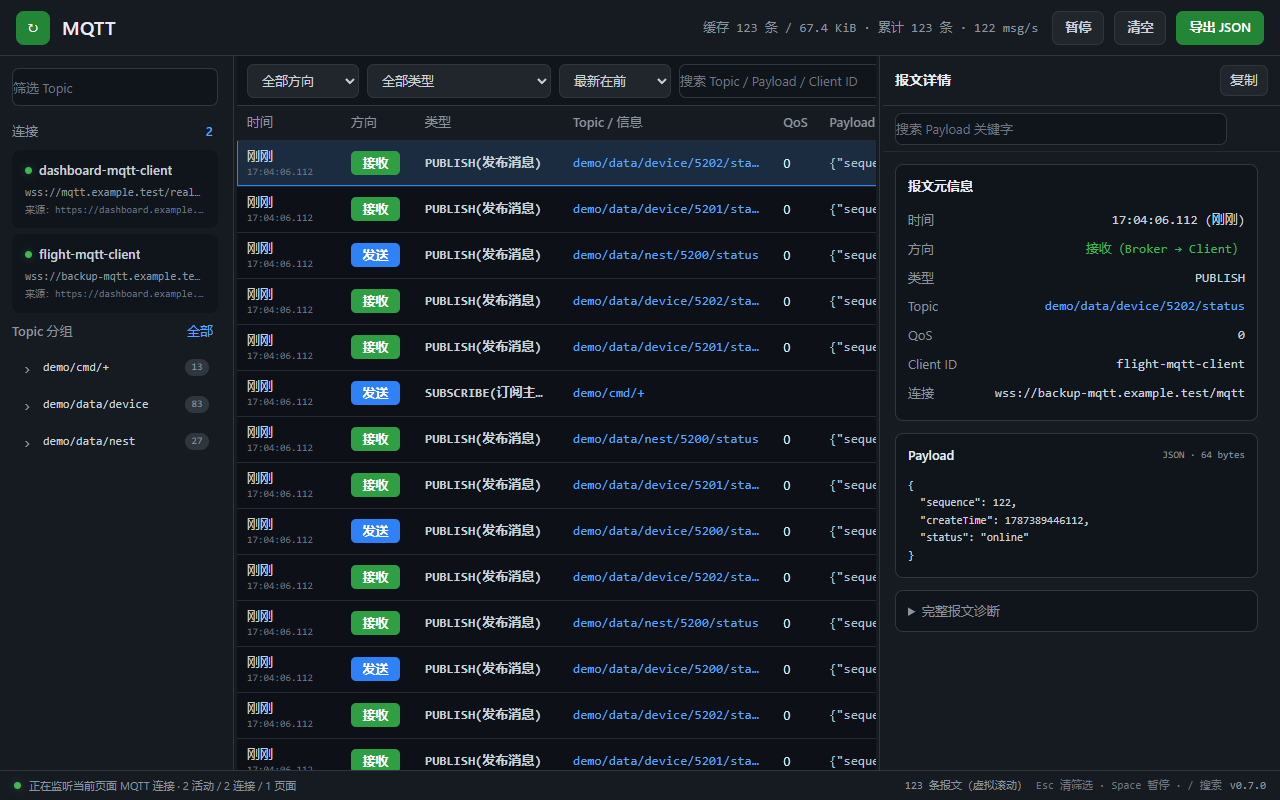
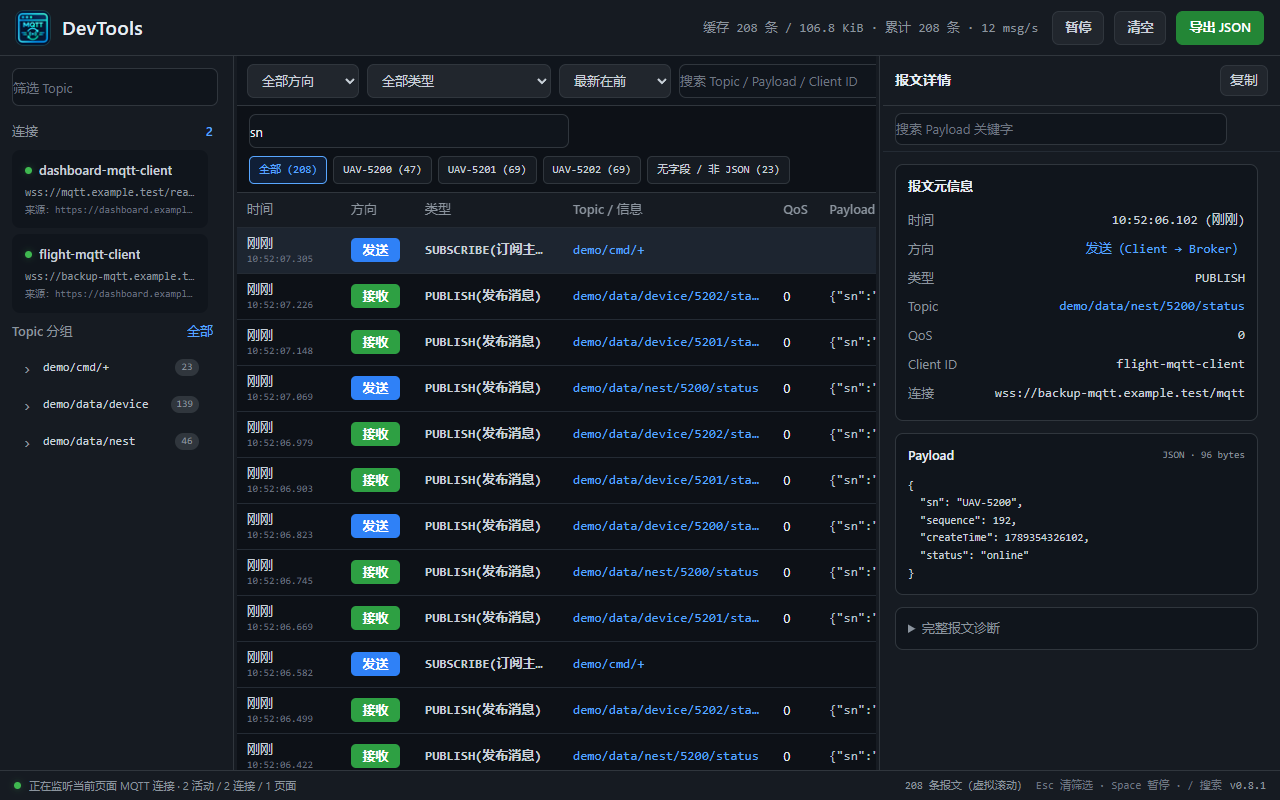
feat: refresh branding for v0.8.2
Assisted-by: Codex

diff --git a/tests/panel-harness.html b/tests/panel-harness.html
@@ -10,7 +10,7 @@
   <body>
     <output id="packetNodeCreations" hidden>0</output>
     <header class="app-header">
-      <div class="brand"><span class="brand-mark">↻</span><span class="brand-name">MQTT</span></div>
+      <div class="brand"><img class="brand-mark" src="../icons/icon32.png" alt="" /><span class="brand-name">DevTools</span></div>
       <div class="header-actions">
         <span id="headerStats" class="header-stats">0 条报文 · 0 msg/s</span>
         <button id="pauseButton" class="action-button" type="button"><span class="button-label">暂停</span></button>
@@ -44,6 +44,10 @@
           <label class="search-field global-search" for="searchInput"><input id="searchInput" type="search" placeholder="搜索 Topic / Payload / Client ID" /></label>
           <span id="activeTopicFilter" class="active-filter hidden"></span>
           <span id="resultCount" class="result-count">0 条结果</span>
+        </div>
+        <div class="payload-grouping">
+          <label class="search-field" for="payloadGroupField"><input id="payloadGroupField" type="search" placeholder="分类字段，如 sn 或 data.sn" aria-label="Payload 分类字段" autocomplete="off" /></label>
+          <div id="payloadGroupTags" class="payload-group-tags" aria-label="Payload 分类标签"></div>
         </div>
         <div class="table-wrap">
           <table><thead><tr><th>时间</th><th>方向</th><th>类型</th><th>Topic / 信息</th><th>QoS</th><th>Payload 预览</th></tr></thead><tbody id="packetRows"></tbody></table>
@@ -113,7 +117,7 @@
             sourceTab,
             packet: subscribe
               ? { type: 8, typeName: "SUBSCRIBE", topics: [{ topic: "demo/cmd/+", qos: 1 }], rawHex: "82 00" }
-              : { type: 3, typeName: "PUBLISH", topic, qos: 0, payloadEncoding: "utf-8", payloadSize: 64, payloadText: JSON.stringify({ sequence, createTime: Date.now(), status: "online" }), rawHex: "30 00" }
+              : { type: 3, typeName: "PUBLISH", topic, qos: 0, payloadEncoding: "utf-8", payloadSize: 96, payloadText: JSON.stringify({ sn: "UAV-" + (5200 + sequence % 3), sequence, createTime: Date.now(), status: sequence % 5 ? "online" : "warning" }), rawHex: "30 00" }
           };
         }
         const initialEvents = [
@@ -122,6 +126,7 @@
           { id: "connection-b", kind: "connection", timestamp: Date.now(), sourceTab, connection: { id: "b", mqtt: true, clientId: "flight-mqtt-client", url: "wss://backup-mqtt.example.test/mqtt", status: "open" } }
         ];
         const largePayload = JSON.stringify({
+          sn: "UAV-5200",
           createTime: new Date().toISOString(),
           deviceId: "uav-5200",
           status: "online",

diff --git a/panel.html b/panel.html
@@ -10,12 +10,7 @@
     <header class="app-header">
       <div class="header-leading">
         <div class="brand" aria-label="MQTT Local DevTools">
-          <span class="brand-mark" aria-hidden="true">
-            <svg viewBox="0 0 24 24" fill="none">
-              <path d="M7 12a5 5 0 0 1 8.8-3.2M17 12a5 5 0 0 1-8.8 3.2" />
-              <path d="m14.4 6.8 1.8 2.1-2.7.7M9.6 17.2l-1.8-2.1 2.7-.7" />
-            </svg>
-          </span>
+          <img class="brand-mark" src="icons/icon32.png" alt="" />
           <span class="brand-name">DevTools</span>
         </div>
         <nav class="module-tabs" aria-label="工具模块">
@@ -325,7 +320,7 @@
     <footer class="statusbar app-statusbar">
       <span id="mqttFooterStatus" class="listen-status"><span id="statusIndicator" class="status-dot"></span><span id="statusText">正在连接页面…</span></span>
       <span id="httpFooterStatus" class="listen-status hidden"><span class="status-dot ready"></span><span id="httpStatusText">HTTP 请求数据仅保留在当前 DevTools 会话内</span></span>
-<span class="status-meta"><span id="packetCount">0 条报文</span><span class="shortcuts">Esc 清筛选 · Space 暂停 · / 搜索</span><span>v0.8.1</span></span>
+<span class="status-meta"><span id="packetCount">0 条报文</span><span class="shortcuts">Esc 清筛选 · Space 暂停 · / 搜索</span><span>v0.8.2</span></span>
     </footer>
 
     <script src="ring-buffer.js"></script>

diff --git a/popup.html b/popup.html
@@ -6,6 +6,8 @@
     <title>MQTT Local DevTools</title>
     <style>
       body { width: 300px; margin: 0; padding: 16px; background: #171a21; color: #e6e9ef; font: 13px/1.5 -apple-system, BlinkMacSystemFont, "Segoe UI", sans-serif; }
+      .brand { display: flex; align-items: center; gap: 10px; margin-bottom: 8px; }
+      .brand img { width: 32px; height: 32px; border-radius: 8px; }
       h1 { margin: 0 0 8px; font-size: 16px; }
       p { margin: 7px 0; color: #aeb5c0; }
       code { color: #64d7aa; word-break: break-all; }
@@ -14,7 +16,7 @@
     </style>
   </head>
   <body>
-    <h1>MQTT Local DevTools</h1>
+    <div class="brand"><img src="icons/icon32.png" alt="" /><h1>MQTT Local DevTools</h1></div>
     <p>监控页面自身建立的 MQTT WebSocket，不会额外连接 Broker。</p>
     <div id="site" class="status">正在读取当前页面…</div>
     <p class="hint">所有 HTTP/HTTPS 页面均已启用。刷新页面后打开开发者工具，选择 <strong>MQTT</strong> 面板。</p>

diff --git a/panel.css b/panel.css
@@ -123,17 +123,10 @@ svg {
 .brand-mark {
   width: 34px;
   height: 34px;
-  display: grid;
-  place-items: center;
+  display: block;
   border-radius: 8px;
-  background: #238636;
-  color: #fff;
-}
-
-.brand-mark svg {
-  width: 22px;
-  height: 22px;
-  stroke-width: 2.2;
+  object-fit: cover;
+  box-shadow: 0 0 0 1px rgba(42, 211, 238, 0.18);
 }
 
 .brand-name {

diff --git a/store-assets/generate-juejin-intro.py b/store-assets/generate-juejin-intro.py
@@ -1,0 +1,145 @@
+from pathlib import Path
+
+from PIL import Image, ImageDraw, ImageFilter, ImageFont
+
+
+ROOT = Path(__file__).resolve().parent
+LOGO = ROOT / "mqtt-local-devtools-logo-final.png"
+MQTT_SCREENSHOT = ROOT / "juejin-intro-02-mqtt-panel.png"
+HTTP_SCREENSHOT = ROOT / "juejin-intro-03-http-client.png"
+FONT = Path(r"C:\Windows\Fonts\msyh.ttc")
+FONT_BOLD = Path(r"C:\Windows\Fonts\msyhbd.ttc")
+
+
+def font(size: int, bold: bool = False) -> ImageFont.FreeTypeFont:
+    return ImageFont.truetype(str(FONT_BOLD if bold else FONT), size)
+
+
+def rounded_mask(size: tuple[int, int], radius: int) -> Image.Image:
+    mask = Image.new("L", size, 0)
+    ImageDraw.Draw(mask).rounded_rectangle((0, 0, size[0] - 1, size[1] - 1), radius, fill=255)
+    return mask
+
+
+def fit_cover(image: Image.Image, size: tuple[int, int]) -> Image.Image:
+    target_ratio = size[0] / size[1]
+    source_ratio = image.width / image.height
+    if source_ratio > target_ratio:
+        height = size[1]
+        width = round(height * source_ratio)
+    else:
+        width = size[0]
+        height = round(width / source_ratio)
+    image = image.resize((width, height), Image.Resampling.LANCZOS)
+    left = (width - size[0]) // 2
+    top = (height - size[1]) // 2
+    return image.crop((left, top, left + size[0], top + size[1]))
+
+
+def current_screenshot() -> Image.Image:
+    return Image.open(MQTT_SCREENSHOT).convert("RGB")
+
+
+def http_screenshot() -> Image.Image:
+    return Image.open(HTTP_SCREENSHOT).convert("RGB")
+
+
+def gradient_background(size: tuple[int, int]) -> Image.Image:
+    width, height = size
+    image = Image.new("RGB", size)
+    pixels = image.load()
+    for y in range(height):
+        for x in range(width):
+            t = y / max(1, height - 1)
+            glow = max(0.0, 1.0 - (((x - 930) / 620) ** 2 + ((y - 270) / 520) ** 2))
+            pixels[x, y] = (
+                int(5 + 3 * t),
+                int(13 + 8 * t + 8 * glow),
+                int(29 + 12 * t + 21 * glow),
+            )
+    return image
+
+
+def add_glow(base: Image.Image, box: tuple[int, int, int, int], color: tuple[int, int, int], radius: int) -> None:
+    layer = Image.new("RGBA", base.size, (0, 0, 0, 0))
+    draw = ImageDraw.Draw(layer)
+    draw.ellipse(box, fill=(*color, 105))
+    layer = layer.filter(ImageFilter.GaussianBlur(radius))
+    base.alpha_composite(layer)
+
+
+def pill(draw: ImageDraw.ImageDraw, xy: tuple[int, int], text: str, accent: tuple[int, int, int]) -> int:
+    label_font = font(18, bold=True)
+    text_box = draw.textbbox((0, 0), text, font=label_font)
+    width = text_box[2] - text_box[0] + 42
+    x, y = xy
+    draw.rounded_rectangle((x, y, x + width, y + 38), 19, fill=(12, 31, 52), outline=(*accent, 165), width=1)
+    draw.ellipse((x + 14, y + 15, x + 22, y + 23), fill=accent)
+    draw.text((x + 29, y + 7), text, font=label_font, fill=(218, 239, 248))
+    return width
+
+
+def make_cover() -> Image.Image:
+    width, height = 1280, 720
+    base = gradient_background((width, height)).convert("RGBA")
+    add_glow(base, (-180, 340, 470, 990), (0, 214, 255), 110)
+    add_glow(base, (820, -240, 1480, 420), (24, 239, 172), 120)
+    draw = ImageDraw.Draw(base)
+
+    # Subtle engineering grid.
+    for x in range(0, width, 48):
+        draw.line((x, 0, x, height), fill=(35, 105, 135, 18), width=1)
+    for y in range(0, height, 48):
+        draw.line((0, y, width, y), fill=(35, 105, 135, 18), width=1)
+
+    logo = Image.open(LOGO).convert("RGB").resize((176, 176), Image.Resampling.LANCZOS)
+    logo_mask = rounded_mask(logo.size, 38)
+    shadow = Image.new("RGBA", base.size, (0, 0, 0, 0))
+    ImageDraw.Draw(shadow).rounded_rectangle((65, 77, 253, 265), 42, fill=(0, 0, 0, 150))
+    shadow = shadow.filter(ImageFilter.GaussianBlur(16))
+    base.alpha_composite(shadow)
+    base.paste(logo, (71, 79), logo_mask)
+
+    draw.text((72, 286), "MQTT Local", font=font(50, bold=True), fill=(239, 250, 255))
+    draw.text((72, 342), "DevTools", font=font(50, bold=True), fill=(44, 226, 238))
+    draw.text((74, 420), "在浏览器开发者工具中", font=font(25), fill=(167, 192, 211))
+    draw.text((74, 458), "实时看懂 MQTT 与 HTTP", font=font(25, bold=True), fill=(218, 241, 249))
+
+    pill(draw, (72, 535), "MQTT 实时监听", (34, 211, 238))
+    pill(draw, (72, 583), "cURL HTTP 调试", (32, 231, 166))
+    pill(draw, (72, 631), "Payload 字段分类", (55, 143, 255))
+
+    # Real product screenshot in a browser-style frame.
+    frame = (486, 92, 1230, 626)
+    frame_shadow = Image.new("RGBA", base.size, (0, 0, 0, 0))
+    ImageDraw.Draw(frame_shadow).rounded_rectangle((frame[0] - 8, frame[1] + 8, frame[2] + 8, frame[3] + 18), 24, fill=(0, 0, 0, 180))
+    frame_shadow = frame_shadow.filter(ImageFilter.GaussianBlur(22))
+    base.alpha_composite(frame_shadow)
+    draw.rounded_rectangle(frame, 22, fill=(11, 22, 35), outline=(49, 177, 213, 110), width=2)
+    draw.rounded_rectangle((frame[0], frame[1], frame[2], frame[1] + 44), 22, fill=(16, 33, 49))
+    draw.rectangle((frame[0], frame[1] + 22, frame[2], frame[1] + 44), fill=(16, 33, 49))
+    for index, color in enumerate(((255, 100, 106), (255, 196, 89), (51, 217, 147))):
+        cx = frame[0] + 24 + index * 24
+        draw.ellipse((cx - 6, frame[1] + 16, cx + 6, frame[1] + 28), fill=color)
+    draw.text((frame[0] + 110, frame[1] + 10), "MQTT + HTTP · DevTools", font=font(17, bold=True), fill=(172, 203, 220))
+
+    content_size = (frame[2] - frame[0] - 20, frame[3] - frame[1] - 58)
+    half_height = (content_size[1] - 6) // 2
+    screenshot = Image.new("RGB", content_size, (10, 17, 25))
+    screenshot.paste(fit_cover(current_screenshot(), (content_size[0], half_height)), (0, 0))
+    screenshot.paste(fit_cover(http_screenshot(), (content_size[0], half_height)), (0, half_height + 6))
+    ImageDraw.Draw(screenshot).rectangle((0, half_height, content_size[0], half_height + 5), fill=(24, 48, 66))
+    screenshot_mask = rounded_mask(content_size, 12)
+    base.paste(screenshot, (frame[0] + 10, frame[1] + 50), screenshot_mask)
+
+    draw.text((493, 653), "Chrome / Edge · MQTT over WebSocket · Open Source", font=font(18), fill=(116, 161, 185))
+    return base.convert("RGB")
+
+
+def main() -> None:
+    cover = make_cover()
+    cover.save(ROOT / "juejin-intro-01-cover.png", optimize=True, compress_level=9)
+
+
+if __name__ == "__main__":
+    main()
